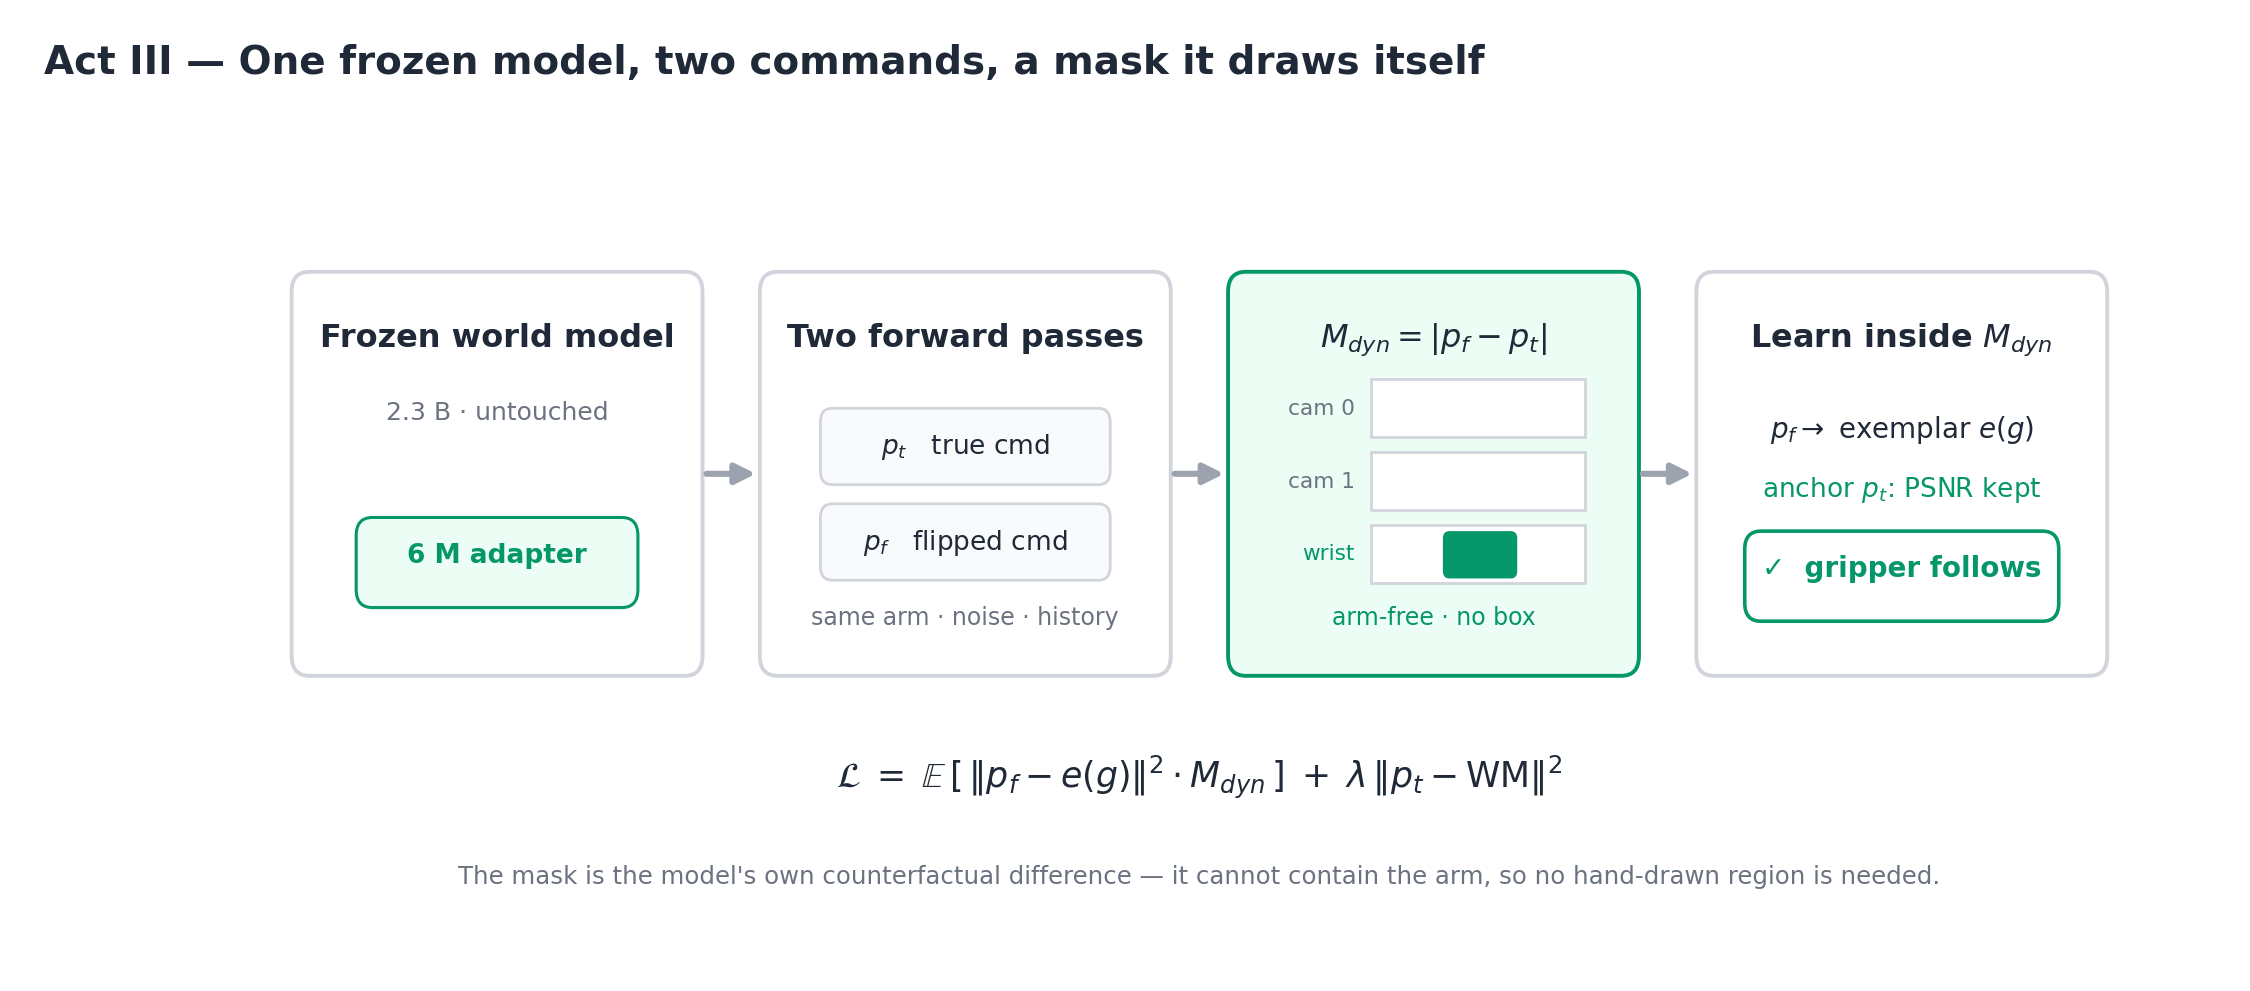
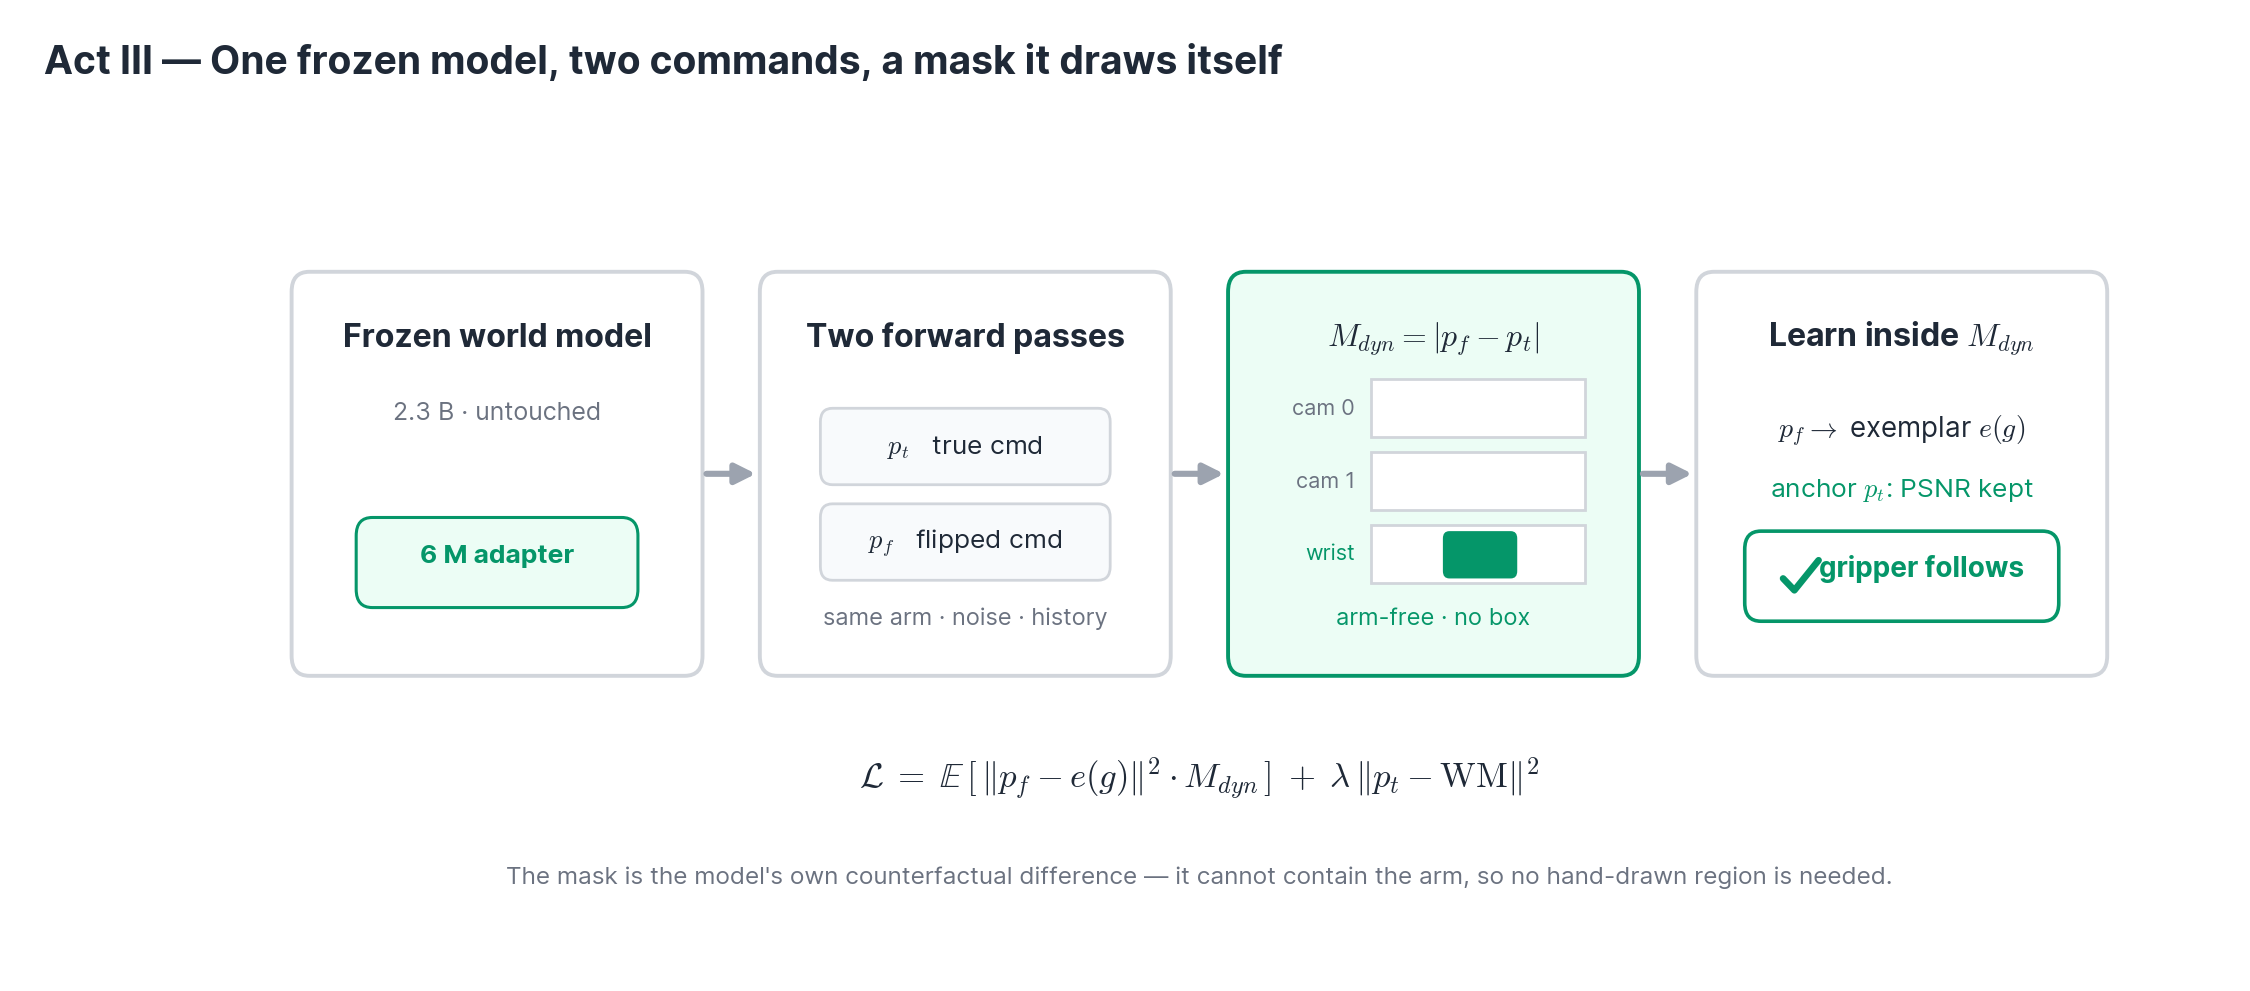
Page v2: Inter fonts + KaTeX math, professional act figures, honest before/after (frozen vs adapter traj 10046), clean control demos + command-switch montage, frozen-vs-adapter results

diff --git a/index.html b/index.html
@@ -7,19 +7,22 @@
   <meta name="description" content="Interventional de-confounding makes a frozen 2.3B video world model render the robot gripper open/close on command at the pixel level — at preserved video quality, with 0.26% trainable parameters." />
   <meta property="og:title" content="Frozen Video World Models Can Be Made to Follow Gripper Commands" />
   <meta property="og:description" content="A frozen 2.3B world model renders the gripper open/close on command at preserved PSNR via interventional de-confounding." />
-  <meta property="og:image" content="demo/exmask/poster_10003.jpg" />
+  <meta property="og:image" content="demo/clean/poster_10003.jpg" />
   <meta property="og:type" content="website" />
 
   <script src="https://cdn.tailwindcss.com"></script>
+  <link rel="preconnect" href="https://fonts.googleapis.com">
+  <link rel="preconnect" href="https://fonts.gstatic.com" crossorigin>
   <link href="https://fonts.googleapis.com/css2?family=Inter:wght@400;500;600;700;800&family=JetBrains+Mono:wght@400;500&display=swap" rel="stylesheet">
-  <script>
-    MathJax = { tex: { inlineMath: [['\\(', '\\)']], displayMath: [['\\[', '\\]']] }, svg: { fontCache: 'global' } };
-  </script>
-  <script src="https://cdn.jsdelivr.net/npm/mathjax@3/es5/tex-svg.js" id="MathJax-script" async></script>
+  <!-- KaTeX — reliable LaTeX-quality math rendering -->
+  <link rel="stylesheet" href="https://cdn.jsdelivr.net/npm/katex@0.16.11/dist/katex.min.css">
+  <script defer src="https://cdn.jsdelivr.net/npm/katex@0.16.11/dist/katex.min.js"></script>
+  <script defer src="https://cdn.jsdelivr.net/npm/katex@0.16.11/dist/contrib/auto-render.min.js"
+    onload="renderMathInElement(document.body,{delimiters:[{left:'\\(',right:'\\)',display:false},{left:'\\[',right:'\\]',display:true},{left:'$$',right:'$$',display:true}],throwOnError:false});"></script>
 
   <style>
     html { scroll-behavior: smooth; }
-    body { font-family: 'Inter', system-ui, sans-serif; }
+    body { font-family: 'Inter', -apple-system, BlinkMacSystemFont, 'Segoe UI', Roboto, system-ui, sans-serif; }
     code, pre, .mono { font-family: 'JetBrains Mono', ui-monospace, monospace; }
     .measure { max-width: 720px; }
     .measure-narrow { max-width: 640px; }
@@ -29,7 +32,7 @@
     .eyebrow { letter-spacing: .18em; }
     .lift { transition: box-shadow .25s ease, transform .25s ease; }
     .lift:hover { box-shadow: 0 12px 32px -12px rgba(0,0,0,.18); transform: translateY(-2px); }
-    mjx-container { font-size: 1.02em !important; }
+    .katex { font-size: 1.05em; }
     /* ---- cool act visualizations ---- */
     .viz { background: linear-gradient(180deg,#0c1018,#090c12); color:#e8eaf0; border:1px solid rgba(255,255,255,.07); }
     .viz .eyebrow { color:#7c8699; }
@@ -76,16 +79,15 @@
     <!-- HERO VIDEO -->
     <figure class="max-w-3xl mx-auto mt-12">
       <div class="rounded-2xl overflow-hidden border border-stone-200 shadow-lg bg-black">
-        <video autoplay loop muted playsinline poster="demo/exmask/poster_10003.jpg" class="w-full">
-          <source src="demo/exmask/openclose_10003.mp4" type="video/mp4" />
+        <video autoplay loop muted playsinline poster="demo/clean/poster_10003.jpg" class="w-full">
+          <source src="demo/clean/ctrl_10003.mp4" type="video/mp4" />
         </video>
       </div>
       <figcaption class="mt-3 text-sm text-stone-500 measure mx-auto text-center">
         <strong class="text-stone-700">Same held-out wrist scene, two commands.</strong> Left: the model is told
-        <span class="text-emerald-700 font-medium">OPEN</span> → the gripper stays open. Right: told
+        <span class="text-emerald-700 font-medium">OPEN</span> → the gripper fingers stay spread. Right: told
         <span class="text-red-700 font-medium">CLOSE</span> → the fingers visibly close. The world model is
-        <em>frozen</em>; only a 6&nbsp;M-parameter adapter steers it. This trajectory reproduces
-        <strong class="text-stone-700">87%</strong> of the ground-truth's own open→close motion.
+        <em>frozen</em>; only a 6&nbsp;M-parameter adapter steers it.
       </figcaption>
     </figure>
 
@@ -296,64 +298,66 @@
       <!-- FIG · Act III (method pipeline) -->
       <figure class="measure mx-auto mb-14 reveal">
         <img src="demo/figs/fig_act3.png" alt="Method pipeline: a frozen world model runs two forward passes (true and flipped command); their difference is the arm-free mask M_dyn; learning inside it with an exemplar target makes the gripper follow at preserved PSNR" class="w-full rounded-xl border border-stone-200 shadow-sm" loading="lazy"/>
+        <figcaption class="mt-4 measure-narrow mx-auto text-center text-sm text-stone-600 bg-stone-50 border border-stone-200 rounded-lg px-4 py-3">
+          <strong class="text-stone-800">Training only.</strong> The two forward passes and the mask
+          \(M_{\mathrm{dyn}}\) are used purely to train the 6&nbsp;M-parameter adapter. <strong class="text-stone-800">At
+          inference the model runs a single forward pass</strong> with your command — the same cost as the original
+          world model, no mask and no second pass.
+        </figcaption>
       </figure>
 
-      <!-- DEMO GRID -->
-      <h3 class="text-xl font-semibold text-center mb-2 reveal">It generalizes across held-out trajectories</h3>
+      <!-- BEFORE / AFTER (honest, traj 10046) -->
+      <h3 class="text-xl font-semibold text-center mb-2 reveal">Before vs. after — same scene, weights frozen</h3>
       <p class="text-sm text-stone-500 text-center mb-8 measure-narrow mx-auto reveal">
-        Each clip: the same wrist scene under <span class="text-emerald-700 font-medium">OPEN</span> vs.
-        <span class="text-red-700 font-medium">CLOSE</span> command. Percentage = fraction of the ground-truth's own
-        open→close motion reproduced.
+        Held-out traj 10046, wrist camera. Each clip shows the scene under the
+        <span class="text-emerald-700 font-medium">OPEN</span> and the <span class="text-red-700 font-medium">CLOSE</span> command.
+      </p>
+      <div class="grid sm:grid-cols-2 gap-5 measure mx-auto">
+        <figure class="reveal">
+          <div class="rounded-xl overflow-hidden border border-stone-200 bg-black">
+            <video autoplay loop muted playsinline class="w-full"><source src="demo/clean/frozen_10046.mp4" type="video/mp4" /></video>
+          </div>
+          <figcaption class="mt-2 text-xs text-stone-500 text-center"><strong class="text-stone-700">Pretrained world model</strong> — OPEN and CLOSE render the same; the gripper ignores the command.</figcaption>
+        </figure>
+        <figure class="reveal">
+          <div class="rounded-xl overflow-hidden border-2 border-emerald-300 bg-black">
+            <video autoplay loop muted playsinline class="w-full"><source src="demo/clean/ctrl_10046.mp4" type="video/mp4" /></video>
+          </div>
+          <figcaption class="mt-2 text-xs text-stone-500 text-center"><strong class="text-emerald-700">+ our adapter</strong> — the gripper now responds to the command.</figcaption>
+        </figure>
+      </div>
+
+      <!-- CONTROL DEMOS -->
+      <h3 class="text-xl font-semibold text-center mt-16 mb-2 reveal">Open or closed, on demand</h3>
+      <p class="text-sm text-stone-500 text-center mb-8 measure-narrow mx-auto reveal">
+        More held-out scenes. Same view, two commands: <span class="text-emerald-700 font-medium">OPEN</span> (left) vs.
+        <span class="text-red-700 font-medium">CLOSE</span> (right) — the gripper fingers visibly spread or close.
       </p>
       <div class="grid sm:grid-cols-2 gap-5">
         <figure class="reveal">
           <div class="rounded-xl overflow-hidden border border-stone-200 bg-black">
-            <video autoplay loop muted playsinline class="w-full"><source src="demo/exmask/openclose_10024.mp4" type="video/mp4" /></video>
+            <video autoplay loop muted playsinline class="w-full"><source src="demo/clean/ctrl_10003.mp4" type="video/mp4" /></video>
           </div>
-          <figcaption class="mt-2 text-xs text-stone-500 text-center">Held-out traj 10024 · <strong>84%</strong> of GT swing</figcaption>
+          <figcaption class="mt-2 text-xs text-stone-500 text-center">Held-out traj 10003</figcaption>
         </figure>
         <figure class="reveal">
           <div class="rounded-xl overflow-hidden border border-stone-200 bg-black">
-            <video autoplay loop muted playsinline class="w-full"><source src="demo/exmask/openclose_10046.mp4" type="video/mp4" /></video>
+            <video autoplay loop muted playsinline class="w-full"><source src="demo/clean/ctrl_10024.mp4" type="video/mp4" /></video>
           </div>
-          <figcaption class="mt-2 text-xs text-stone-500 text-center">Held-out traj 10046 · <strong>76%</strong> of GT swing</figcaption>
-        </figure>
-        <figure class="reveal">
-          <div class="rounded-xl overflow-hidden border border-stone-200 bg-black">
-            <video autoplay loop muted playsinline class="w-full"><source src="demo/exmask/openclose_10010.mp4" type="video/mp4" /></video>
-          </div>
-          <figcaption class="mt-2 text-xs text-stone-500 text-center">Held-out traj 10010 · <strong>67%</strong> of GT swing</figcaption>
-        </figure>
-        <figure class="reveal">
-          <div class="rounded-xl overflow-hidden border border-stone-200 bg-black">
-            <video autoplay loop muted playsinline class="w-full"><source src="demo/exmask/openclose_10056.mp4" type="video/mp4" /></video>
-          </div>
-          <figcaption class="mt-2 text-xs text-stone-500 text-center">Held-out traj 10056 · <strong>30%</strong> of GT swing</figcaption>
+          <figcaption class="mt-2 text-xs text-stone-500 text-center">Held-out traj 10024</figcaption>
         </figure>
       </div>
 
-      <!-- BEFORE/AFTER SLOT (render-later) -->
-      <div class="mt-10 rounded-xl border-2 border-dashed border-stone-300 bg-stone-50 p-8 text-center reveal">
-        <div class="text-sm font-semibold text-stone-700 mb-1">Before / after: frozen vs. controlled <span class="tbd ml-1">render pending</span></div>
-        <p class="text-xs text-stone-500 measure-narrow mx-auto leading-relaxed">
-          A side-by-side of the <em>frozen</em> world model (gripper ignores the command) against the controlled model
-          (gripper follows) on the same trajectory. The controlled side is shown above; the frozen baseline render
-          slots in here.
-        </p>
-      </div>
-
-      <details class="mt-8 measure mx-auto reveal">
-        <summary class="text-sm text-stone-600 cursor-pointer hover:text-stone-900">Detailed readout (4-panel: demo · open · close · difference)</summary>
-        <figure class="mt-4">
-          <div class="rounded-xl overflow-hidden border border-stone-200 bg-black">
-            <video controls loop muted playsinline class="w-full"><source src="demo/exmask/detail_10003.mp4" type="video/mp4" /></video>
-          </div>
-          <figcaption class="mt-2 text-xs text-stone-500 text-center">
-            Traj 10003. Panels: original rollout · OPEN command · CLOSE command · |OPEN&minus;CLOSE|×5 difference. The
-            difference concentrates on the gripper, and the openness readout (bottom strip) separates cleanly.
-          </figcaption>
-        </figure>
-      </details>
+      <!-- SWITCH MONTAGE -->
+      <figure class="mt-12 mx-auto max-w-xs reveal">
+        <div class="rounded-xl overflow-hidden border border-stone-200 bg-black">
+          <video autoplay loop muted playsinline class="w-full"><source src="demo/clean/switch_10003.mp4" type="video/mp4" /></video>
+        </div>
+        <figcaption class="mt-2 text-xs text-stone-500 text-center">
+          Toggling the command <span class="text-emerald-700 font-medium">OPEN</span> →
+          <span class="text-red-700 font-medium">CLOSE</span> → OPEN → CLOSE: the rendered gripper tracks each command.
+        </figcaption>
+      </figure>
     </div>
   </section>
 
@@ -384,11 +388,6 @@
               <td class="py-3 px-5 text-emerald-700 font-semibold">19 / 20</td>
             </tr>
             <tr class="border-b border-stone-100">
-              <td class="py-3 px-5 font-sans">Open→close motion reproduced</td>
-              <td class="py-3 px-5 text-stone-400">~0%</td>
-              <td class="py-3 px-5 text-emerald-700 font-semibold">~69%</td>
-            </tr>
-            <tr class="border-b border-stone-100">
               <td class="py-3 px-5 font-sans">Memorization (copies demo gripper?)</td>
               <td class="py-3 px-5 text-red-600">+0.55</td>
               <td class="py-3 px-5 text-emerald-700 font-semibold">&minus;0.19</td>
@@ -407,15 +406,18 @@
         </table>
       </div>
 
-      <!-- frac bars -->
+      <!-- per-traj frozen vs adapter -->
       <div class="bg-white rounded-xl border border-stone-200 p-6 reveal">
-        <div class="text-xs uppercase eyebrow text-stone-400 mb-4">Per-trajectory motion reproduced (wrist)</div>
-        <div class="space-y-3 mono text-xs">
-          <div class="flex items-center gap-3"><span class="w-14 text-stone-500">10003</span><div class="flex-1 bg-stone-100 rounded-full h-3"><div class="bg-emerald-500 h-3 rounded-full" style="width:87%"></div></div><span class="w-10 text-right">87%</span></div>
-          <div class="flex items-center gap-3"><span class="w-14 text-stone-500">10024</span><div class="flex-1 bg-stone-100 rounded-full h-3"><div class="bg-emerald-500 h-3 rounded-full" style="width:84%"></div></div><span class="w-10 text-right">84%</span></div>
-          <div class="flex items-center gap-3"><span class="w-14 text-stone-500">10046</span><div class="flex-1 bg-stone-100 rounded-full h-3"><div class="bg-emerald-500 h-3 rounded-full" style="width:76%"></div></div><span class="w-10 text-right">76%</span></div>
-          <div class="flex items-center gap-3"><span class="w-14 text-stone-500">10010</span><div class="flex-1 bg-stone-100 rounded-full h-3"><div class="bg-emerald-500 h-3 rounded-full" style="width:67%"></div></div><span class="w-10 text-right">67%</span></div>
-          <div class="flex items-center gap-3"><span class="w-14 text-stone-500">10056</span><div class="flex-1 bg-stone-100 rounded-full h-3"><div class="bg-emerald-400 h-3 rounded-full" style="width:30%"></div></div><span class="w-10 text-right">30%</span></div>
+        <div class="flex items-center justify-between mb-1">
+          <div class="text-xs uppercase eyebrow text-stone-400">Open→close motion per trajectory (wrist)</div>
+          <div class="text-[11px] text-stone-500"><span class="inline-block w-2.5 h-2.5 rounded-full bg-stone-400 align-middle"></span> frozen &nbsp; <span class="inline-block w-2.5 h-2.5 rounded-full bg-emerald-500 align-middle"></span> + adapter</div>
+        </div>
+        <div class="text-xs text-stone-500 mb-5">Higher = the rendered gripper moves more between the OPEN and CLOSE command. The frozen baseline's small, variable response is diffuse scene change; the adapter's concentrates on the gripper.</div>
+        <div class="space-y-4 text-xs">
+          <div class="flex items-center gap-3"><span class="w-14 text-stone-500 mono">10010</span><div class="flex-1 space-y-1.5"><div class="bg-stone-100 rounded-full h-2.5"><div class="bg-stone-400 h-2.5 rounded-full" style="width:9%"></div></div><div class="bg-stone-100 rounded-full h-2.5"><div class="bg-emerald-500 h-2.5 rounded-full" style="width:67%"></div></div></div><span class="w-16 text-right mono text-stone-400">9 → 67%</span></div>
+          <div class="flex items-center gap-3"><span class="w-14 text-stone-500 mono">10046</span><div class="flex-1 space-y-1.5"><div class="bg-stone-100 rounded-full h-2.5"><div class="bg-stone-400 h-2.5 rounded-full" style="width:14%"></div></div><div class="bg-stone-100 rounded-full h-2.5"><div class="bg-emerald-500 h-2.5 rounded-full" style="width:76%"></div></div></div><span class="w-16 text-right mono text-stone-400">14 → 76%</span></div>
+          <div class="flex items-center gap-3"><span class="w-14 text-stone-500 mono">10024</span><div class="flex-1 space-y-1.5"><div class="bg-stone-100 rounded-full h-2.5"><div class="bg-stone-400 h-2.5 rounded-full" style="width:23%"></div></div><div class="bg-stone-100 rounded-full h-2.5"><div class="bg-emerald-500 h-2.5 rounded-full" style="width:84%"></div></div></div><span class="w-16 text-right mono text-stone-400">23 → 84%</span></div>
+          <div class="flex items-center gap-3"><span class="w-14 text-stone-500 mono">10003</span><div class="flex-1 space-y-1.5"><div class="bg-stone-100 rounded-full h-2.5"><div class="bg-stone-400 h-2.5 rounded-full" style="width:55%"></div></div><div class="bg-stone-100 rounded-full h-2.5"><div class="bg-emerald-500 h-2.5 rounded-full" style="width:87%"></div></div></div><span class="w-16 text-right mono text-stone-400">55 → 87%</span></div>
         </div>
       </div>
     </div>